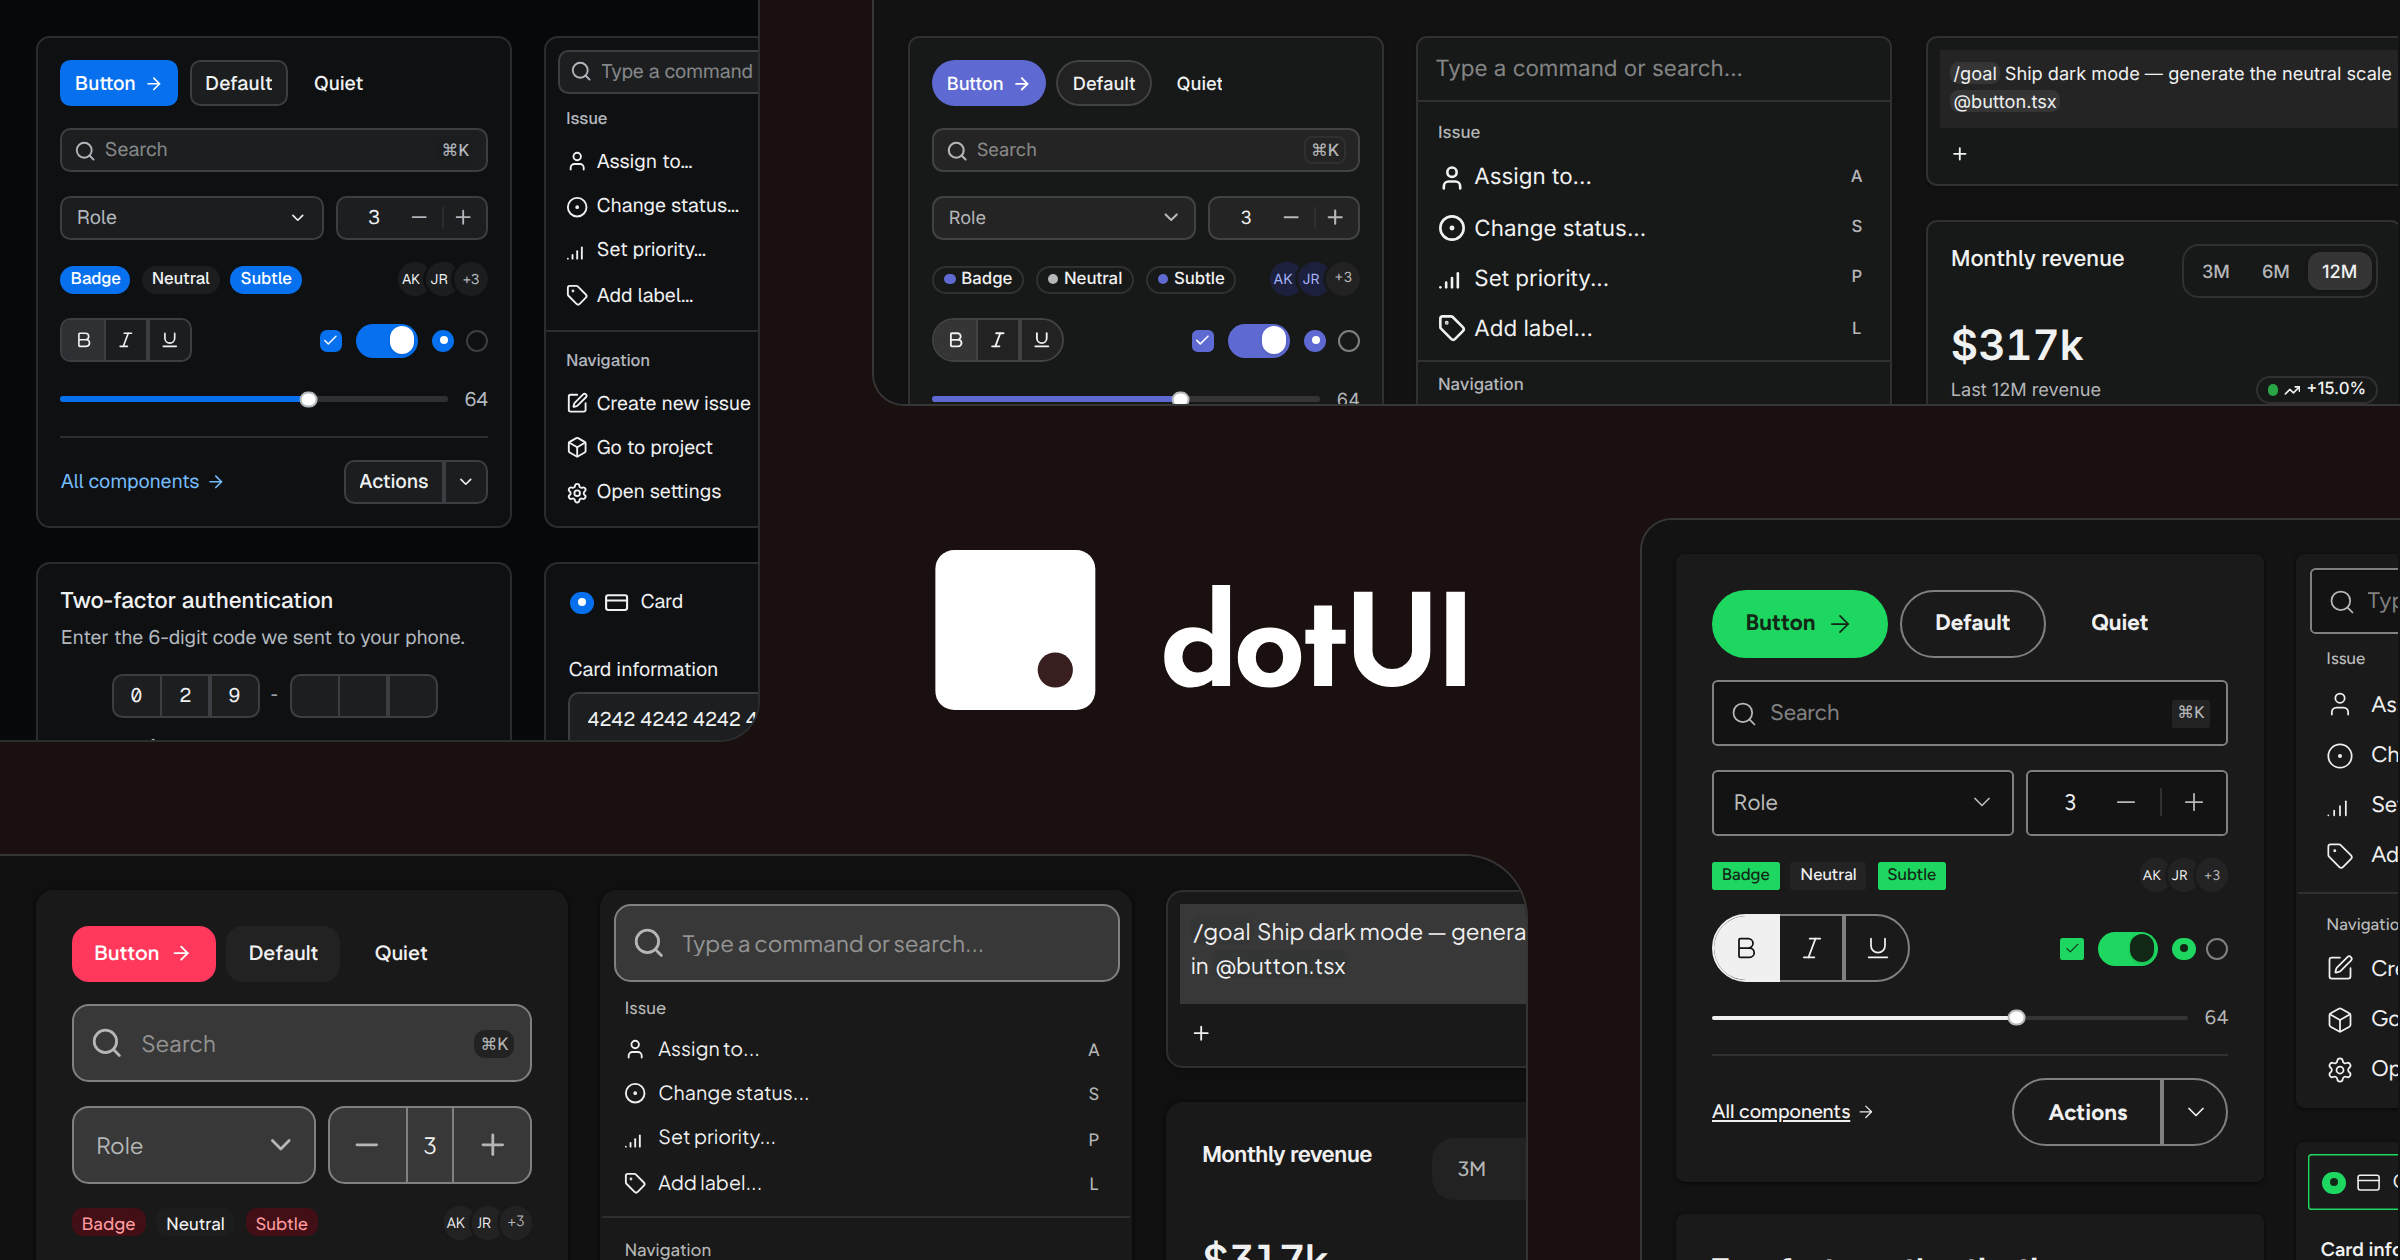
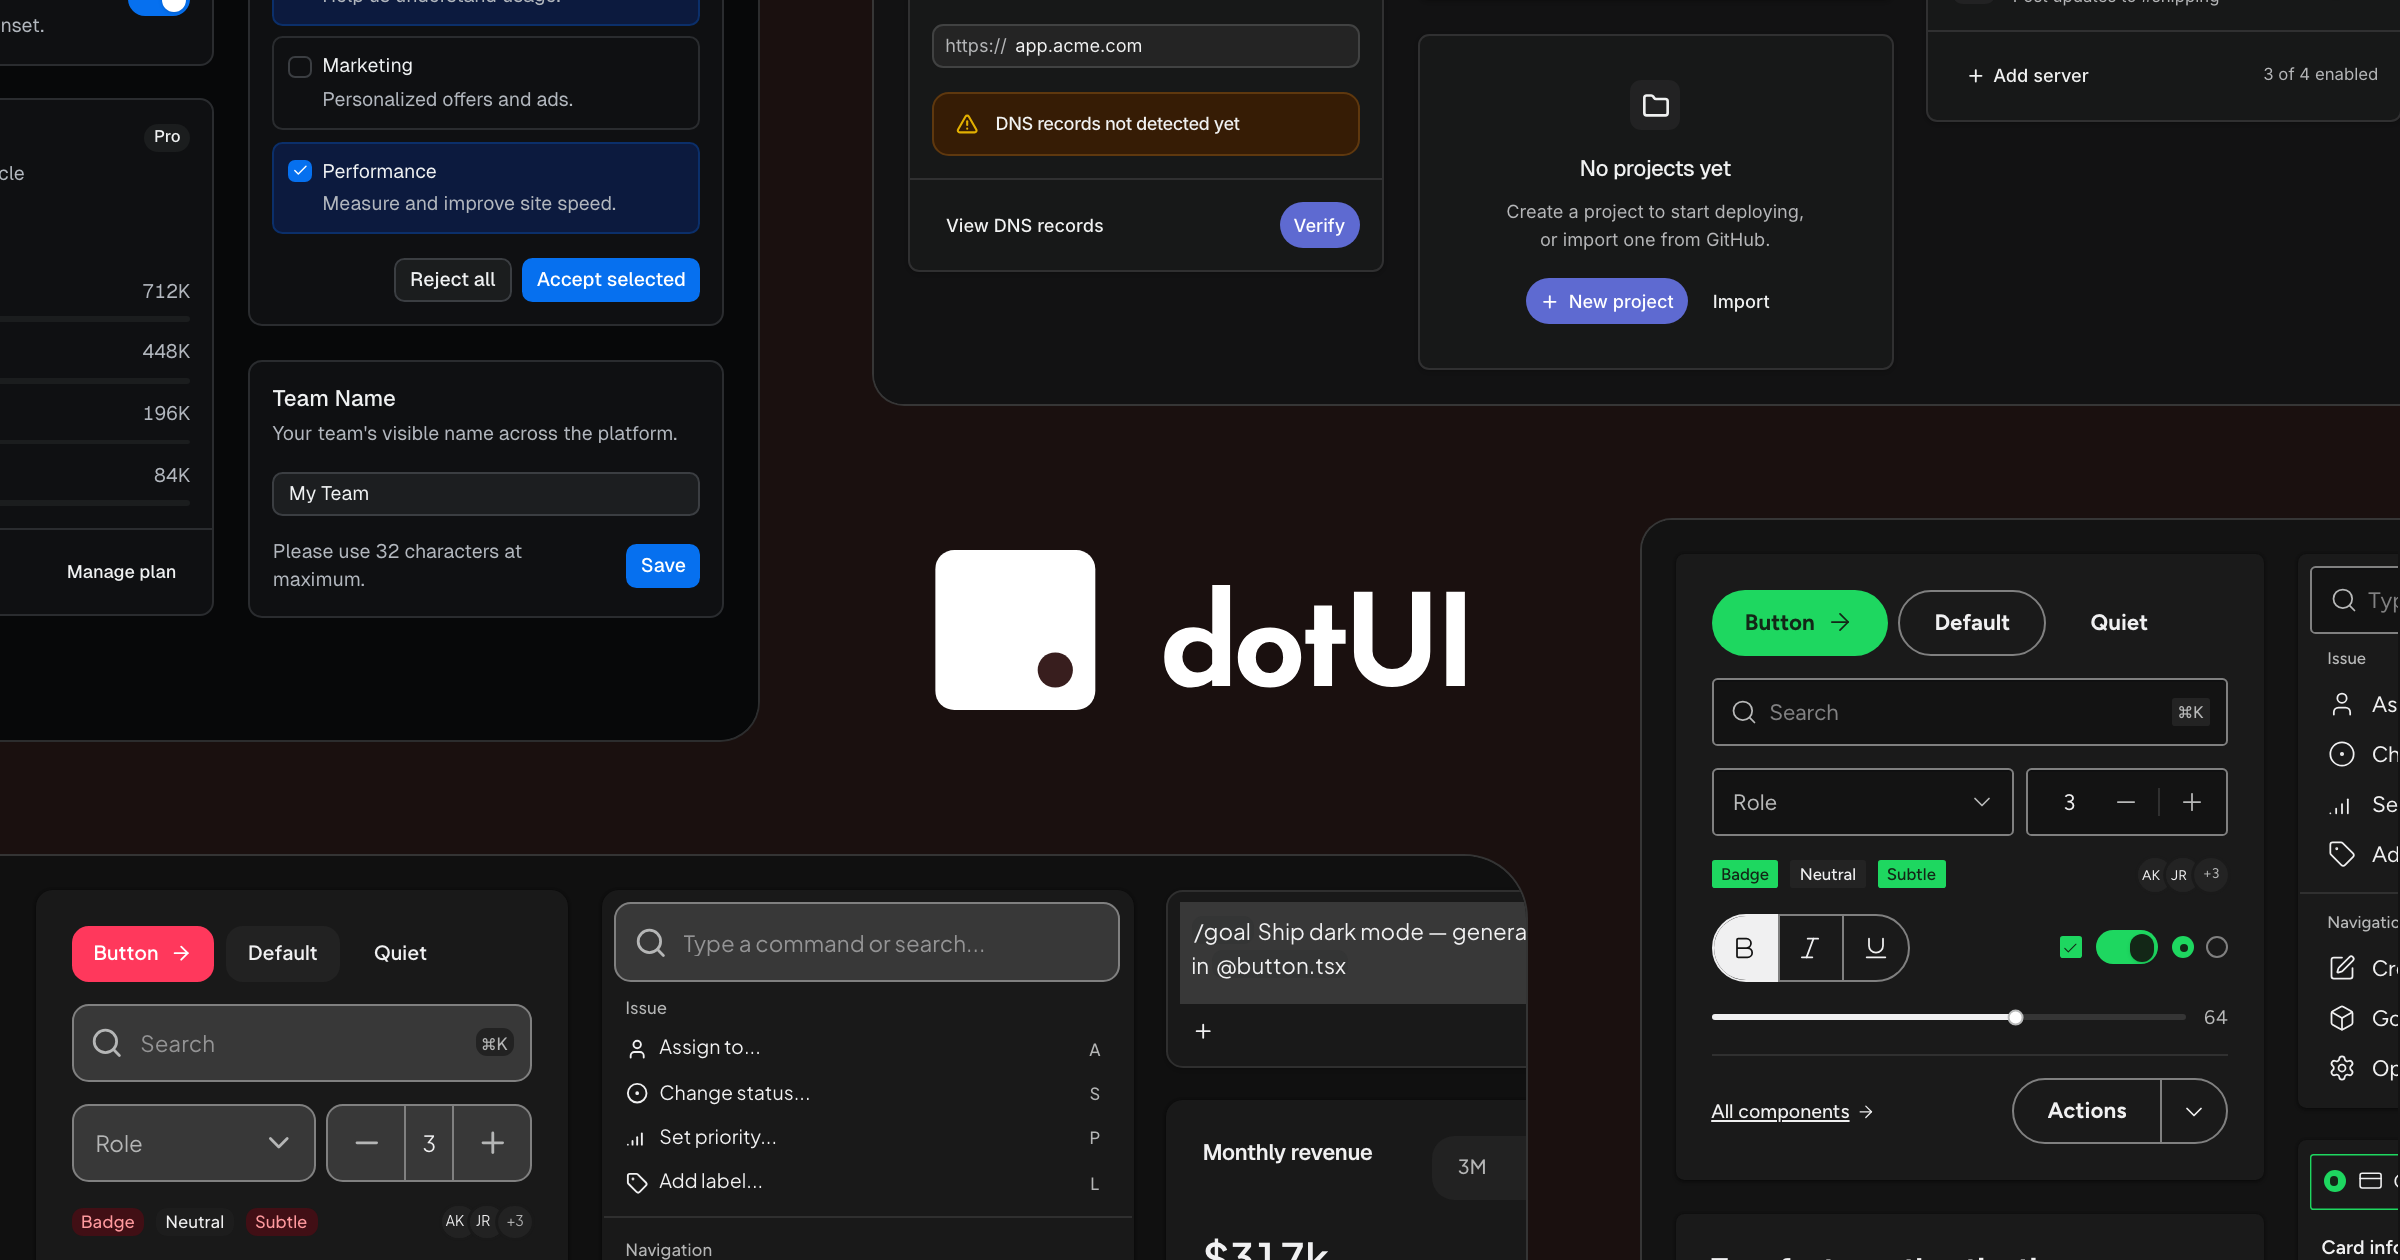
feat(brand): crop the cover's top containers at the image edge

diff --git a/www/src/modules/marketing/cover.tsx b/www/src/modules/marketing/cover.tsx
@@ -17,7 +17,12 @@ const GUTTER = 56
 
 const fromCenter = (px: number) => `calc(50% + ${px}px)`
 
-const SLOTS: { preset: string; inset: Record<Side, number | string> }[] = [
+const SLOTS: {
+  preset: string
+  inset: Record<Side, number | string>
+  /** Scrolls the cards canvas to its end on these axes, cropping it at the image edge. */
+  scrollEnd?: { x?: boolean; y?: boolean }
+}[] = [
   {
     preset: "origin",
     inset: {
@@ -26,6 +31,7 @@ const SLOTS: { preset: string; inset: Record<Side, number | string> }[] = [
       right: fromCenter(HALF_W),
       bottom: fromCenter(GUTTER - HALF_H),
     },
+    scrollEnd: { x: true, y: true },
   },
   {
     preset: "linear",
@@ -35,6 +41,7 @@ const SLOTS: { preset: string; inset: Record<Side, number | string> }[] = [
       left: fromCenter(GUTTER - HALF_W),
       bottom: fromCenter(HALF_H),
     },
+    scrollEnd: { y: true },
   },
   {
     preset: "spotify",
@@ -56,7 +63,7 @@ const SLOTS: { preset: string; inset: Record<Side, number | string> }[] = [
   },
 ]
 
-function PresetContainer({ preset, inset }: (typeof SLOTS)[number]) {
+function PresetContainer({ preset, inset, scrollEnd }: (typeof SLOTS)[number]) {
   const designSystem = resolvePreset(preset)
   // Bleeding sides pad back to the visible edge; the canvas pads itself.
   const pad = (side: Side) => (inset[side] === BLEED ? -BLEED : 0)
@@ -70,6 +77,7 @@ function PresetContainer({ preset, inset }: (typeof SLOTS)[number]) {
       color={designSystem.color}
       icons={designSystem.icons}
     >
+      {/* content-visibility: auto would leave a scrolled canvas's cards unrendered. */}
       <div
         style={{
           ...inset,
@@ -78,9 +86,19 @@ function PresetContainer({ preset, inset }: (typeof SLOTS)[number]) {
           paddingBottom: pad("bottom"),
           paddingLeft: pad("left"),
         }}
-        className="absolute overflow-hidden rounded-2xl border border-white/15 bg-bg"
+        className="absolute overflow-hidden rounded-2xl border border-white/15 bg-bg [&_*]:[content-visibility:visible]!"
       >
-        <div className="zoom-[0.7]">
+        <div
+          style={{
+            zoom: 0.7,
+            ...(scrollEnd && {
+              position: "absolute",
+              width: "max-content",
+              [scrollEnd.x ? "right" : "left"]: 0,
+              [scrollEnd.y ? "bottom" : "top"]: 0,
+            }),
+          }}
+        >
           <CardsCanvas />
         </div>
       </div>
